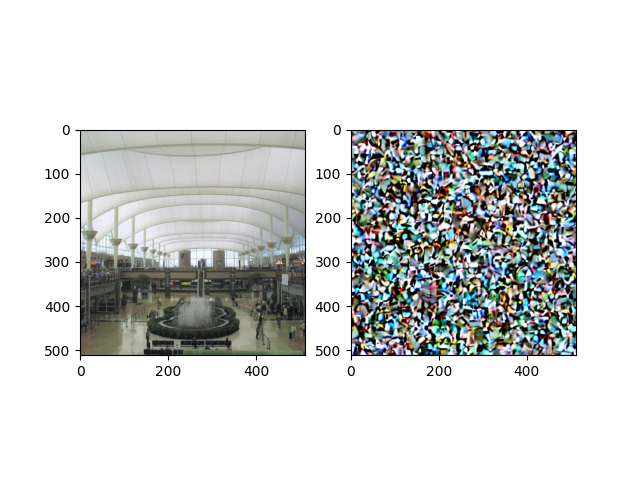
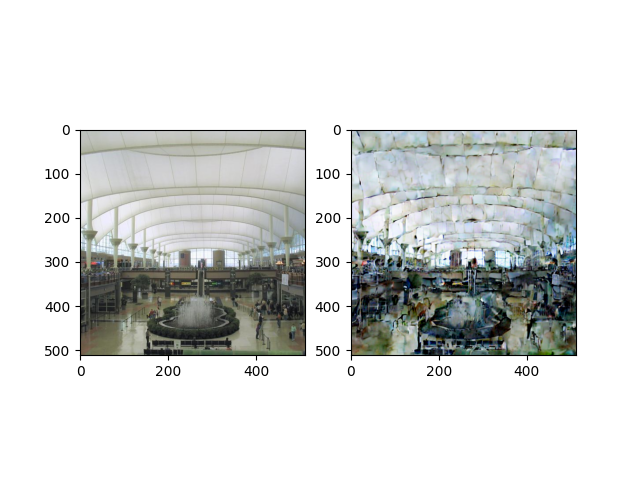
bug fixes

Changed region(s): [[0.5312, 0.25, 0.9062, 0.75]]

diff --git a/CNPipeline.py b/CNPipeline.py
@@ -921,7 +921,7 @@ class StableDiffusionControlNetPipeline(
         # init_noise_scheduler = DDPMScheduler.from_pretrained(args.pretrained_model_name_or_path, subfolder="scheduler")
         latents = self.vae.encode(real_image.to(device)).latent_dist.sample()
         # latents = self.vae.encode(batch["pixel_values"].to(dtype=weight_dtype)).latent_dist.sample()
-        latents = latents * self.vae.config.scaling_factor
+        # latents = latents * self.vae.config.scaling_factor
 
         # Sample noise that we'll add to the latents
         noise = torch.randn_like(latents)
@@ -934,15 +934,19 @@ class StableDiffusionControlNetPipeline(
 
         # Add noise to the latents according to the noise magnitude at each timestep
         # (this is the forward diffusion process)
-        noisy_latents = init_noise_scheduler.add_noise(latents, noise, noising_timesteps)
+        
+        noisy_latents = init_noise_scheduler.add_noise(latents * self.vae.config.scaling_factor, noise, noising_timesteps)
+        # noisy_image = self.decode_latents(noisy_latents)
         noisy_image = self.vae.decode(noisy_latents / self.vae.config.scaling_factor, return_dict=False, generator=generator)[0]
         noisy_image = self.image_processor.denormalize(noisy_image)
 
         fig,axs = plt.subplots(1,2)
         axs[0].imshow(real_image.squeeze().permute(1,2,0))
+
         axs[1].imshow(noisy_image.cpu().squeeze().permute(1,2,0))
+       
         plt.savefig("./noisylatents.png")
-        return noisy_latents, timesteps
+        return noisy_latents, timesteps, start_denoising_idx
 
 
     @torch.no_grad()
@@ -1260,9 +1264,9 @@ class StableDiffusionControlNetPipeline(
         # TODO add noise to real image and start with this
         # Convert images to latent space
         # from diffusers import DDPMScheduler
-        
+        start_index_denoising = 0
         if(optimization_arguments["init_noise_factor"] != 0):
-            latents, timesteps = self.init_latents_from_real(real_image, num_inference_steps, timesteps, generator, optimization_arguments["init_noise_factor"], device)
+            latents, timesteps, start_index_denoising = self.init_latents_from_real(real_image, num_inference_steps, timesteps, generator, optimization_arguments["init_noise_factor"], device)
 
         
         
@@ -1338,7 +1342,9 @@ class StableDiffusionControlNetPipeline(
         with self.progress_bar(total=num_inference_steps) as progress_bar:
             with torch.autocast(device_type='cuda', dtype=weight_dtype): #torch.cuda.amp.autocast(dtype = weight_dtype, enabled=enable_mp):
 
-                for i, t in enumerate(timesteps):
+                for i_init, t in enumerate(timesteps):
+                    i = i + start_index_denoising
+                    print(f"INFO::Current timestep = {t} at index {i}.")
                     torch.cuda.empty_cache()                    
                     final_image = None
                     # START OPTIMIZATION 
